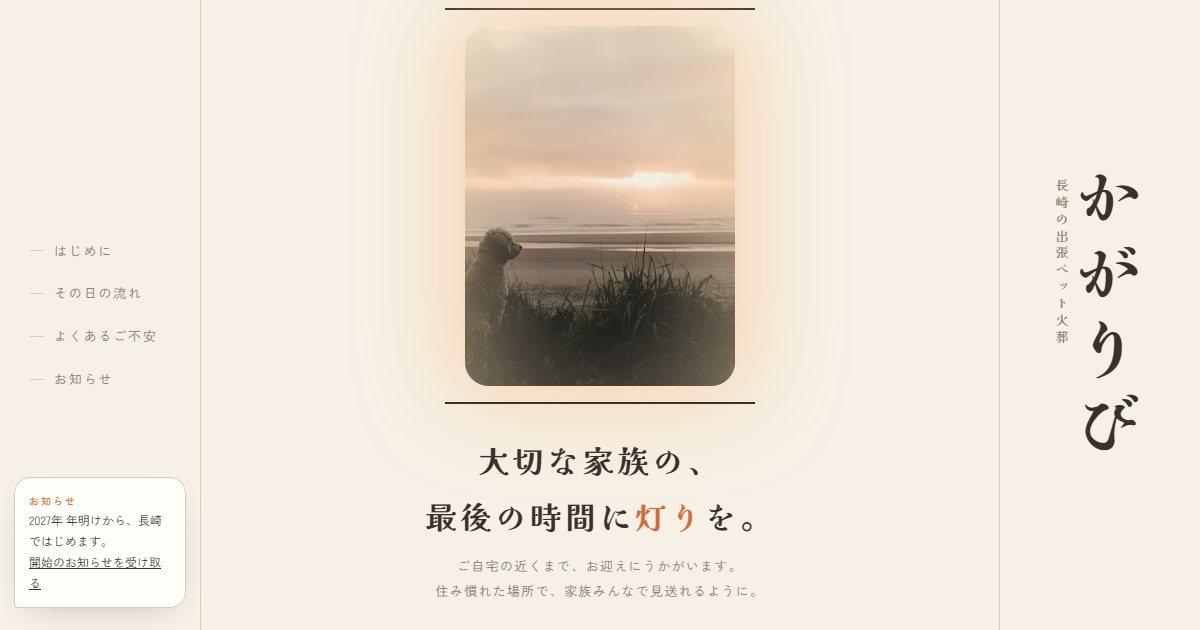
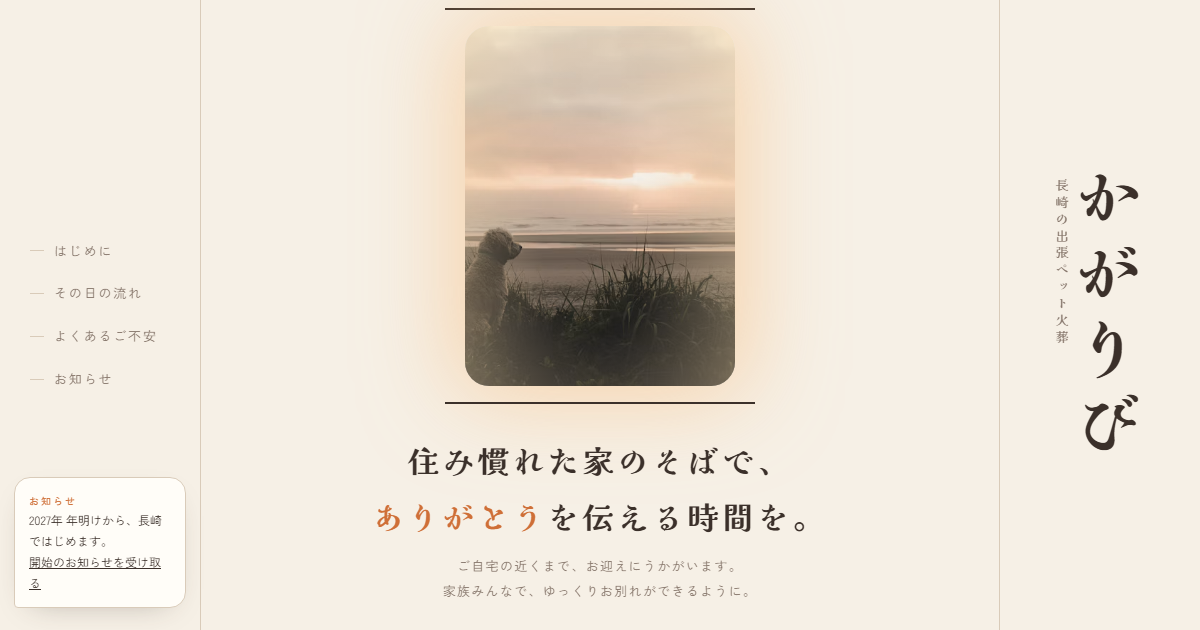
たたき台を更新

Changed region(s): [[0.3083, 0.7841, 0.6783, 0.8444], [0.3392, 0.6937, 0.6475, 0.754], [0.37, 0.9048, 0.6167, 0.9651]]

diff --git a/s/254b383057668af7/index.html b/s/254b383057668af7/index.html
@@ -22,7 +22,8 @@
 /* たたき台：Gear Bloom
    ヒーローは 案1（参考：なごりおしい夜 / きたがわ）の「夕暮れの灯りの中へ入る」＋
    案2（参考：はちとワルツ）の「左右を止めて中央だけ流す構成」「写真が窓に収まる」。
-   灯りが広がって、思い出の写真を照らす行灯になる。暗いのは入口の夕暮れだけ。
+   夕暮れの家の明かりが広がって、思い出の写真を照らす行灯になる。暗いのは入口の夕暮れだけ。
+   ※2026-10-07 火葬のサイトで「火」「灯り」は火葬の火に読めるため、炎・火の粉・「灯り」の言葉は使わない。光は「家の窓の明かり」として見せる
    ※アーチ形は zakka koti と同じになるので使わず、行灯の形にしている */
 :root{--paper:#f6f0e6;--paper2:#efe6d8;--ink:#3b302a;--sub:#86766b;--ember:#cf6f37;--rule:#d9cbb9;--dusk1:#8f8296;--dusk2:#d9b9a6;--dusk3:#f1d9c3;--side:200px}
 *{box-sizing:border-box;margin:0}
@@ -47,20 +48,17 @@ html.js .side{opacity:var(--b,0)}
 .pin{height:360vh;position:relative}
 .stage{position:sticky;top:0;height:100svh;overflow:hidden}
 .dusk{position:absolute;inset:0;background:linear-gradient(180deg,var(--dusk1) 0%,var(--dusk2) 62%,var(--dusk3) 100%);opacity:calc(1 - var(--a,0))}
-html:not(.js) .dusk,html:not(.js) .glow,html:not(.js) .fire,html:not(.js) .hint,html:not(.js) .top{display:none}
+html:not(.js) .dusk,html:not(.js) .glow,html:not(.js) .lamp,html:not(.js) .hint,html:not(.js) .top{display:none}
 .glow{position:absolute;left:50%;top:50%;width:520px;height:520px;margin:-260px 0 0 -260px;border-radius:50%;
   background:radial-gradient(circle,rgba(255,226,182,.75) 0%,rgba(255,206,160,.35) 22%,rgba(255,196,150,.12) 45%,rgba(255,196,150,0) 68%);
   transform:scale(calc(1 + var(--a,0) * 8));opacity:calc(1 - var(--b,0))}
-.fire{position:absolute;left:50%;top:50%;width:0;height:0;opacity:calc(1 - var(--a,0) * 2.5)}
-.core{position:absolute;left:-7px;top:-10px;width:14px;height:20px;border-radius:50% 50% 50% 50% / 60% 60% 40% 40%;
-  background:radial-gradient(ellipse at 50% 65%,#fffdf6 0%,#ffe0a8 40%,#ffa75c 85%,rgba(255,140,70,0) 100%);
-  box-shadow:0 0 10px 3px rgba(255,200,130,.95),0 0 34px 10px rgba(255,150,80,.55),0 0 90px 30px rgba(255,140,80,.25);
-  animation:flick 3.1s ease-in-out infinite,flick2 1.7s ease-in-out infinite}
-@keyframes flick{0%,100%{transform:scale(1)}30%{transform:scale(1.12)}55%{transform:scale(.94)}80%{transform:scale(1.06)}}
-@keyframes flick2{0%,100%{opacity:1}40%{opacity:.86}70%{opacity:.95}}
-.sparks i{position:absolute;left:var(--x);top:-14px;width:var(--s);height:var(--s);border-radius:50%;background:#ffc27a;
-  box-shadow:0 0 6px 2px rgba(255,150,70,.8);opacity:0;animation:rise var(--t) var(--d) ease-out infinite}
-@keyframes rise{0%{opacity:0;transform:translate(0,0)}15%{opacity:.95}55%{opacity:.75;transform:translate(8px,-120px)}100%{opacity:0;transform:translate(-6px,-250px)}}
+.lamp{position:absolute;left:50%;top:50%;width:18px;height:24px;margin:-12px 0 0 -9px;border-radius:3px;
+  background:linear-gradient(180deg,#fff8e8,#ffe2b2);box-shadow:0 0 12px 3px rgba(255,214,160,.8),0 0 48px 14px rgba(255,190,140,.35);
+  opacity:calc(1 - var(--a,0) * 2.5);animation:breathe 5s ease-in-out infinite}
+.lamp::before,.lamp::after{content:"";position:absolute;background:rgba(150,110,85,.45)}
+.lamp::before{left:50%;top:0;bottom:0;width:1px}
+.lamp::after{top:50%;left:0;right:0;height:1px}
+@keyframes breathe{0%,100%{filter:brightness(1)}50%{filter:brightness(1.08)}}
 .top{position:absolute;left:28px;top:22px;font-family:"Kaisei Opti",serif;font-weight:700;font-size:20px;letter-spacing:.12em;color:#fff7ef;opacity:calc(1 - var(--b,0) * 2);z-index:3}
 .hint{position:absolute;left:0;right:0;bottom:40px;text-align:center;color:#fff7ef;font-size:13px;letter-spacing:.2em;opacity:calc(1 - var(--a,0) * 4)}
 .hint::after{content:"";display:block;width:1px;height:38px;margin:12px auto 0;background:#fff7ef;animation:drop 2s infinite}
@@ -102,24 +100,24 @@ html.js .rv.in{opacity:1;transform:none}
 .prep div{border:1px dashed var(--rule);border-radius:14px;padding:18px 20px;font-size:13px;color:var(--sub);line-height:1.8}
 .prep b{display:block;color:var(--ink);font-size:14px;font-weight:500}
 
-/* その日の流れ：灯りが一つずつ点いていく道のり */
+/* その日の流れ：読み進めた所の点に色が入る（光らせない） */
 .flow{list-style:none;padding:0;margin-top:44px;position:relative}
 .flow::before{content:"";position:absolute;left:11px;top:8px;bottom:8px;width:1px;background:var(--rule)}
-.flow::after{content:"";position:absolute;left:11px;top:8px;width:1px;height:calc(var(--fp,0) * (100% - 16px));background:var(--ember)}
+.flow::after{content:"";position:absolute;left:11px;top:8px;width:1px;height:calc(var(--fp,0) * (100% - 16px));background:#b9a38f}
 .flow li{position:relative;padding:0 0 34px 48px}
 .flow li:last-child{padding-bottom:0}
 .flow .dot{position:absolute;left:4px;top:7px;width:15px;height:15px;border-radius:50%;background:var(--paper);border:1px solid var(--rule);transition:background .6s,box-shadow .6s,border-color .6s}
-.flow li.lit .dot{background:#ffd9a6;border-color:#f0a866;box-shadow:0 0 0 4px rgba(255,200,140,.25),0 0 18px 4px rgba(255,170,100,.45)}
+.flow li.lit .dot{background:#d9c3ad;border-color:#b9a38f}
 .flow h3{font-size:16px;font-weight:500;letter-spacing:.08em}
 .flow p{font-size:14px;color:var(--sub);margin-top:4px}
 
-/* よくあるご不安：問いを開くと、答えの場所が灯る */
+/* よくあるご不安：問いを開くと、答えが出る */
 .qa{margin-top:40px;border-top:1px solid var(--rule)}
 .qa details{border-bottom:1px solid var(--rule)}
 .qa summary{list-style:none;cursor:pointer;display:flex;justify-content:space-between;align-items:center;gap:20px;padding:22px 4px;font-size:16px;letter-spacing:.06em}
 .qa summary::-webkit-details-marker{display:none}
 .qa summary::after{content:"";flex:none;width:9px;height:9px;border-radius:50%;background:var(--rule);transition:background .4s,box-shadow .4s}
-.qa details[open] summary::after{background:#ffbf80;box-shadow:0 0 12px 3px rgba(255,170,100,.55)}
+.qa details[open] summary::after{background:var(--sub)}
 .qa .ans{padding:0 4px 24px;font-size:14px;color:var(--sub)}
 .qa .ans p + p{margin-top:8px}
 
@@ -133,7 +131,7 @@ footer{margin:0 var(--side);border-left:1px solid var(--rule);border-right:1px s
 footer b{display:block;font-family:"Kaisei HarunoUmi",serif;font-size:24px;color:var(--ink);letter-spacing:.16em;margin-bottom:6px}
 .note{position:fixed;right:12px;bottom:10px;font-size:10px;color:#9b8b80;z-index:9}
 
-@media (prefers-reduced-motion:reduce){.core,.sparks i,.hint::after{animation:none}.sparks{display:none}}
+@media (prefers-reduced-motion:reduce){.lamp,.hint::after{animation:none}}
 @media (max-width:860px){
   :root{--side:0px}
   .side.l{display:none}
@@ -163,14 +161,14 @@ footer b{display:block;font-family:"Kaisei HarunoUmi",serif;font-size:24px;color
   <div class="stage" id="stage">
     <div class="dusk"></div>
     <div class="glow"></div>
-    <div class="fire" aria-hidden="true"><span class="core"></span><span class="sparks"><i style="--x:-14px;--d:0s;--t:3.6s;--s:3px"></i><i style="--x:10px;--d:.7s;--t:4.2s;--s:2px"></i><i style="--x:-4px;--d:1.5s;--t:3.2s;--s:2.5px"></i><i style="--x:16px;--d:2.2s;--t:4.6s;--s:2px"></i><i style="--x:-20px;--d:2.9s;--t:3.9s;--s:2px"></i><i style="--x:4px;--d:3.5s;--t:4.4s;--s:3px"></i><i style="--x:-9px;--d:4.1s;--t:3.5s;--s:2px"></i><i style="--x:22px;--d:4.8s;--t:4s;--s:2.5px"></i></span></div>
+    <div class="lamp" aria-hidden="true"></div>
     <p class="top">かがりび</p>
-    <p class="hint">灯りのほうへ</p>
+    <p class="hint">ゆっくりと、下へ</p>
     <div class="hcenter">
       <div class="andon"><div class="ph"><img src="https://images.unsplash.com/photo-1600232943148-b4b5e339e572?w=900&q=75&auto=format&fit=crop" alt="（仮の写真）海を見て座る犬"></div></div>
       <div class="hcopy">
-        <h1>大切な家族の、<br>最後の時間に<em>灯り</em>を。</h1>
-        <p>ご自宅の近くまで、お迎えにうかがいます。<br>住み慣れた場所で、家族みんなで見送れるように。</p>
+        <h1>住み慣れた家のそばで、<br><em>ありがとう</em>を伝える時間を。</h1>
+        <p>ご自宅の近くまで、お迎えにうかがいます。<br>家族みんなで、ゆっくりお別れができるように。</p>
       </div>
     </div>
   </div>
@@ -249,7 +247,7 @@ footer b{display:block;font-family:"Kaisei HarunoUmi",serif;font-size:24px;color
   };
   const hero = () => { const r = pin.getBoundingClientRect(); return cl(-r.top / (pin.offsetHeight - innerHeight)); };
 
-  // その日の流れ：線が伸び、通った所の灯りが点く
+  // その日の流れ：線が伸び、通った所の点に色が入る
   const flow = document.getElementById('flow'), lis = [...flow.children];
   const flowStep = () => {
     const r = flow.getBoundingClientRect(), fp = cl((innerHeight * .7 - r.top) / r.height);
